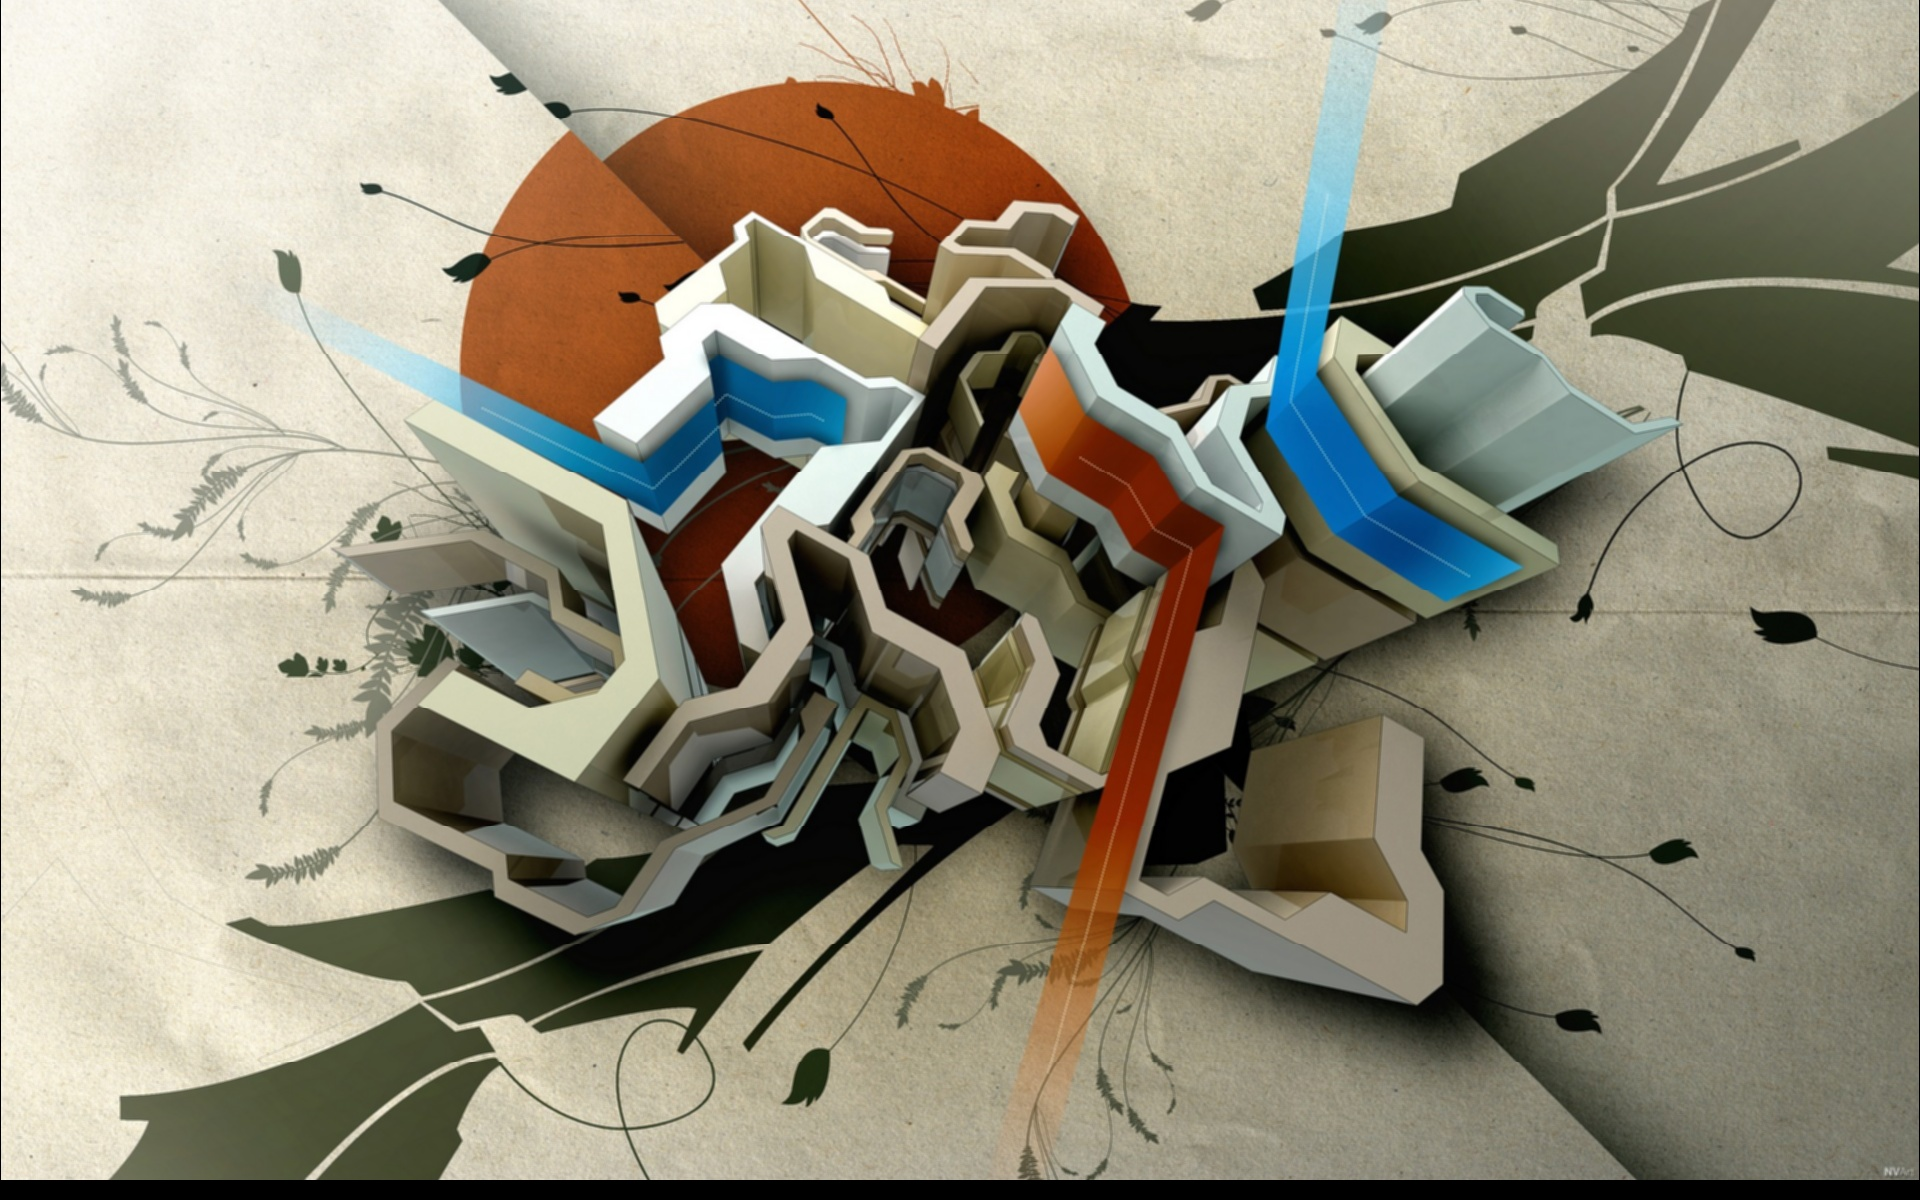
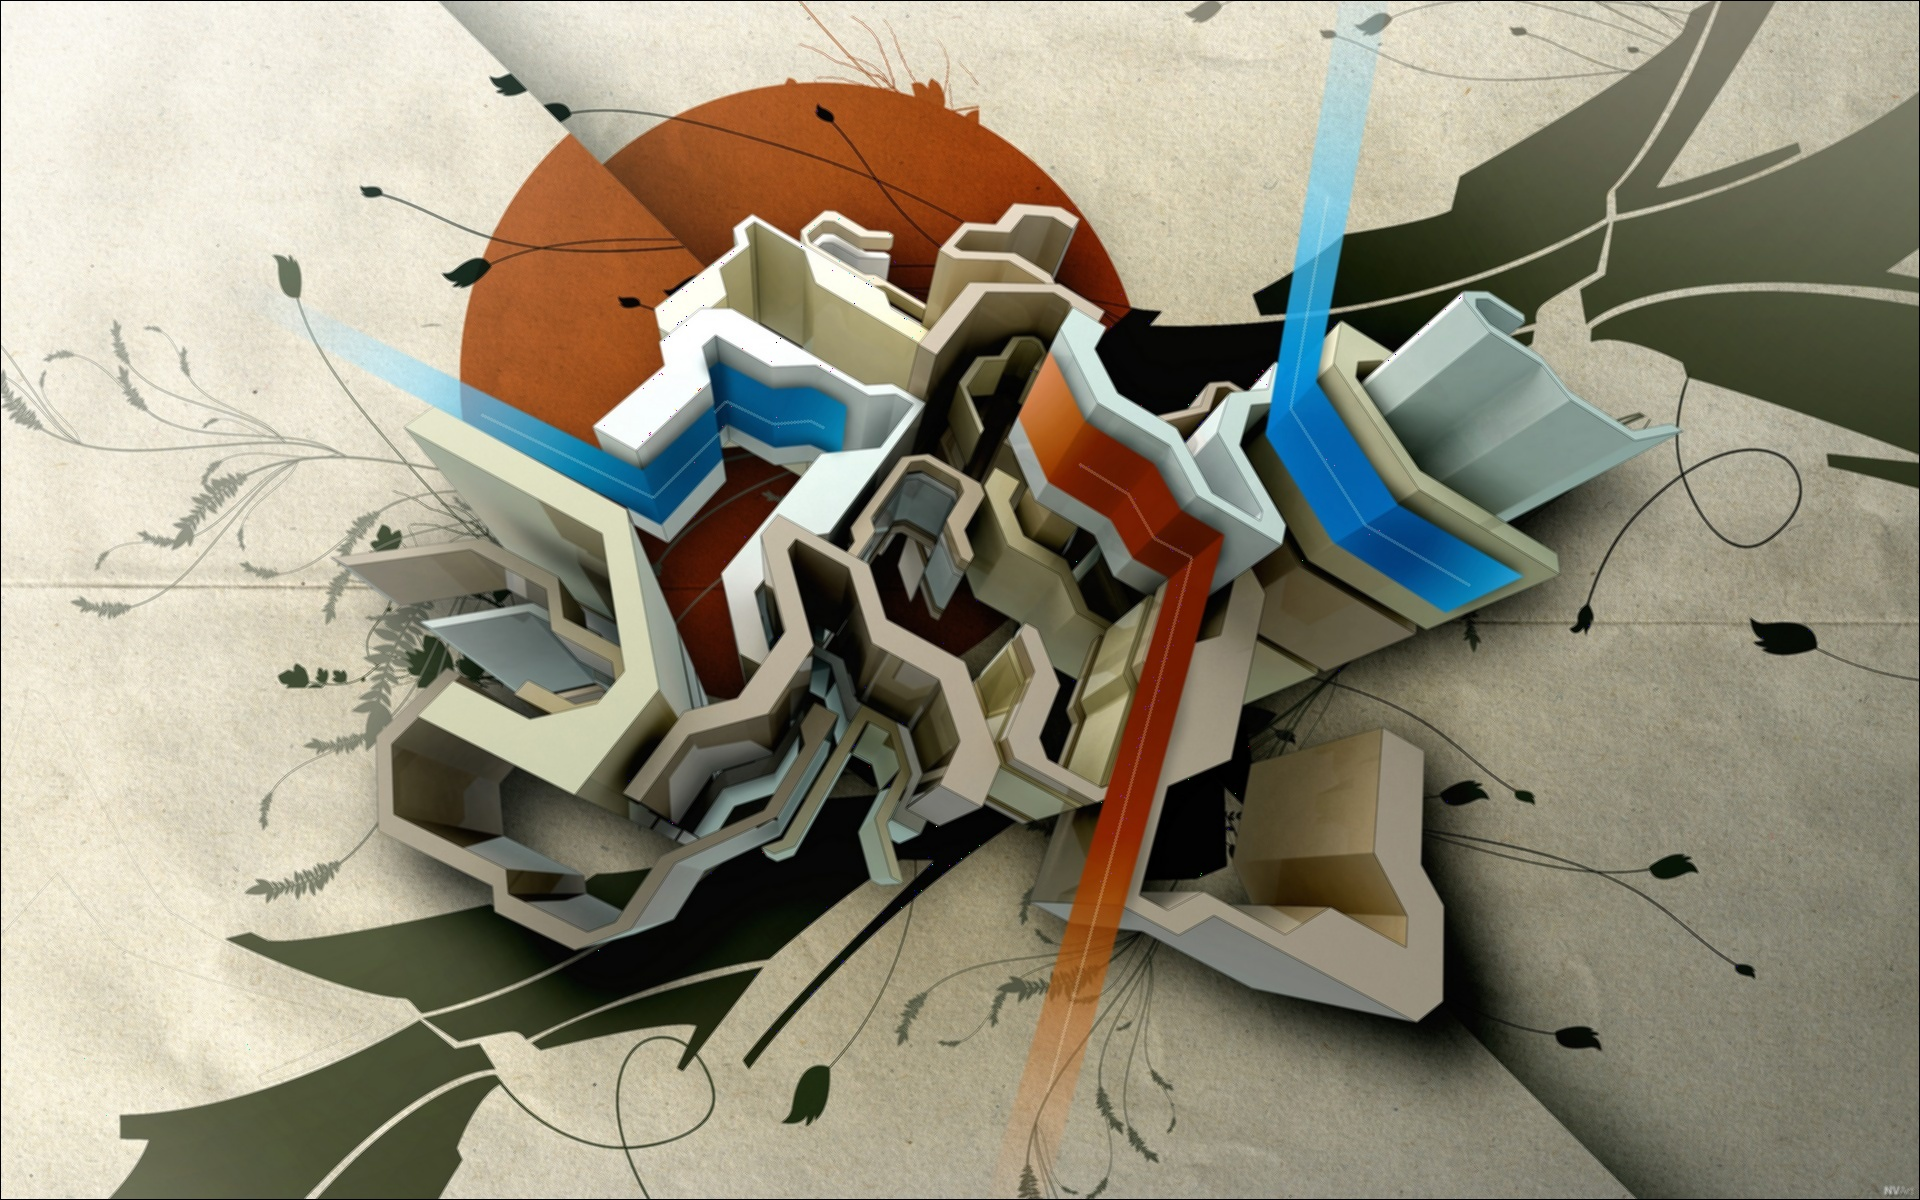
cpu code ajouté

diff --git a/lib/convolution_transform.cpp b/lib/convolution_transform.cpp
@@ -1,0 +1,133 @@
+#include <cstdio>
+#include "convolution_transform.hpp"
+
+void ConvolutionMatrix::transformPixel(int ith_col, int jth_row) {
+    if (ith_col > 0 && ith_col < nb_cols + start_index && jth_row > 0 && jth_row < nb_rows + start_index)
+    {
+        int j_local = jth_row + start_index;
+        int i_local;
+
+        int i_max = ith_col + start_index + size;
+        int j_max = j_local + size;
+        int rgb[3] = {0, 0, 0};
+        for( int j_inc = 0; j_local < j_max; j_local++){
+
+            i_local = i_max - size;
+            long index =  3 * (j_local * nb_cols + i_local);
+            for(  ; i_local < i_max; i_local++, j_inc++ ){
+                rgb[0] += mat[j_inc] * input[ index ];
+                rgb[1] += mat[j_inc] * input[ index + 1 ];
+                rgb[2] += mat[j_inc] * input[ index + 2 ];
+
+                index += 3;
+            }
+        }
+        for( int i = 0, j = 3 * (jth_row * nb_cols + ith_col); i < 3; i++, j++) output[j] = rgb[i] / divisor;
+    }
+
+}
+
+ConvolutionTransform::ConvolutionTransform( unsigned char *input, int nb_cols, int nb_rows, EffectStyle style) {
+    switch( style){
+        case EMBOSS5:
+            convolutionMatrix = new ConvolutionMatrix(5, input, nb_cols, nb_rows);
+            convolutionMatrix->setConvMatrix(
+                    new char[5*5]{
+                                 1, 0, 0, 0, 0,
+                                 0, 1, 0, 0, 0,
+                                 0, 0, 0, 0, 0,
+                                 0, 0, 0, -1, 0,
+                                 0, 0, 0, 0, -1
+                    }, 1);
+            break;
+        case EMBOSS:
+            convolutionMatrix = new ConvolutionMatrix(3, input, nb_cols, nb_rows);
+            convolutionMatrix->setConvMatrix(
+                    new char[3*3]{
+                            -2, -1, 0,
+                            -1, 1, 1,
+                            0, 1, 2
+                    }, 1);
+            break;
+        case GAUSSIANBLUR5:
+            convolutionMatrix = new ConvolutionMatrix(5, input, nb_cols, nb_rows);
+            convolutionMatrix->setConvMatrix(
+                    new char[5*5]{
+                                 1, 4, 6, 4, 1,
+                                 4, 16, 24, 16, 4,
+                                 6, 24, 36, 24, 6,
+                                 4, 16, 24, 16, 4,
+                                 1, 4, 6, 4, 1
+                    }, 256);
+            break;
+        case GAUSSIANBLUR:
+            convolutionMatrix = new ConvolutionMatrix(3, input, nb_cols, nb_rows);
+            convolutionMatrix->setConvMatrix(
+                    new char[3*3]{
+                            1, 2, 1,
+                            2, 4, 2,
+                            1, 2, 1
+                    }, 16);
+            break;
+        case SHARPEN:
+            convolutionMatrix = new ConvolutionMatrix(3, input, nb_cols, nb_rows);
+            convolutionMatrix->setConvMatrix(
+                    new char[3*3]{
+                            0, -5, 0,
+                            -5, 3, -5,
+                            0, -5, 0
+                    }, -17);
+            break;
+        default:
+            convolutionMatrix = new ConvolutionMatrix(3, input, nb_cols, nb_rows);
+            convolutionMatrix->setConvMatrix(
+                    new char[9]{
+                            1, 1, 1,
+                            1, 1, 1,
+                            1, 1, 1
+                    }, 9);
+    }
+}
+void ConvolutionMatrix::saveOutput2Input() {
+    for(int i = 0; i < 3 * nb_rows * nb_cols; i++) input[i] = output[i];
+}
+int ConvolutionMatrix::getNbRows() const { return nb_rows; }
+int ConvolutionMatrix::getNbcols() const { return nb_cols; }
+
+void ConvolutionMatrix::setConvMatrix(char *mat_arg, int div_val) {
+    int size_max = size * size;
+    for( int i = 0, j = size_max-1; i < size_max; i++, j--){
+        mat[i] = mat_arg[j];
+    }
+    this->divisor = div_val;
+
+
+}
+
+ConvolutionMatrix::~ConvolutionMatrix() = default;
+
+void ConvolutionTransform::transform() {
+    int nb_rows = convolutionMatrix->getNbRows();
+    int nb_cols = convolutionMatrix->getNbcols();
+
+    for(int j = 0; j < nb_rows; j++){
+        for(int i = 0; i < nb_cols; i++)
+            convolutionMatrix->transformPixel(i, j);
+    }
+}
+
+unsigned char *ConvolutionTransform::getResult() {
+    return convolutionMatrix->output;
+}
+
+void ConvolutionTransform::transform(int nb_pass) {
+
+    for( int i = 0; i < nb_pass; i++){
+        transform();
+        convolutionMatrix->saveOutput2Input();
+    }
+
+}
+
+
+

diff --git a/lib/convolution_transform.hpp b/lib/convolution_transform.hpp
@@ -1,0 +1,48 @@
+#ifndef PROJET_CUDA_CONVOLUTION_TRANSFORM_HPP
+#define PROJET_CUDA_CONVOLUTION_TRANSFORM_HPP
+
+using namespace std;
+
+enum EffectStyle {
+    BOXBLUR, GAUSSIANBLUR, GAUSSIANBLUR5, EMBOSS, EMBOSS5, SHARPEN
+};
+
+class ConvolutionMatrix {
+public:
+    ConvolutionMatrix(int size, unsigned char *input, int nb_cols, int nb_rows): size(size), input(input),
+        nb_rows(nb_rows), nb_cols(nb_cols), output(new unsigned char[nb_cols * nb_rows * 3]),
+        start_index(-(size-1) / 2), divisor(1), mat(new char[size * size]) {}
+    virtual ~ConvolutionMatrix();
+
+    unsigned char *output;
+
+protected:
+
+    unsigned char *input;
+
+    int divisor;
+    int nb_cols;
+    int nb_rows;
+    int size;
+    int start_index;
+    char *mat;
+public:
+    void setConvMatrix(char *mat, int div_val);
+    void transformPixel(int nb_cols, int nb_rows);
+    void saveOutput2Input();
+    int getNbcols() const;
+    int getNbRows() const;
+};
+
+class ConvolutionTransform {
+
+    ConvolutionMatrix *convolutionMatrix;
+public:
+    ConvolutionTransform(unsigned char *input, int nb_cols, int nb_rows, EffectStyle style);
+    void transform();
+    void transform(int nb_pass);
+    unsigned char *getResult();
+
+};
+
+#endif //PROJET_CUDA_CONVOLUTION_TRANSFORM_HPP

diff --git a/cpu_img_processor.cpp b/cpu_img_processor.cpp
@@ -1,0 +1,26 @@
+#include <opencv2/opencv.hpp>
+#include <vector>
+#include <cstring>
+#include "convolution_transform.hpp"
+
+using namespace std;
+int main()
+{
+    auto img_out = "/mnt/data/tsky-19/eclipsec/CUDAProjectV2/out.jpg";
+    auto img_in = "/mnt/data/tsky-19/eclipsec/CUDAProjectV2/in.jpg";
+
+    cv::Mat m_in = cv::imread(img_in, cv::IMREAD_UNCHANGED);
+    auto rows = m_in.rows;
+    auto cols = m_in.cols;
+
+    ConvolutionTransform convolutionTransform(m_in.data,  m_in.cols, m_in.rows,  SHARPEN);
+    convolutionTransform.transform();
+    unsigned char *g = convolutionTransform.getResult();
+
+    cv::Mat m_out(rows, cols, CV_8UC3, g);
+
+    cv::imwrite(img_out, m_out);
+
+
+    return 0;
+}
